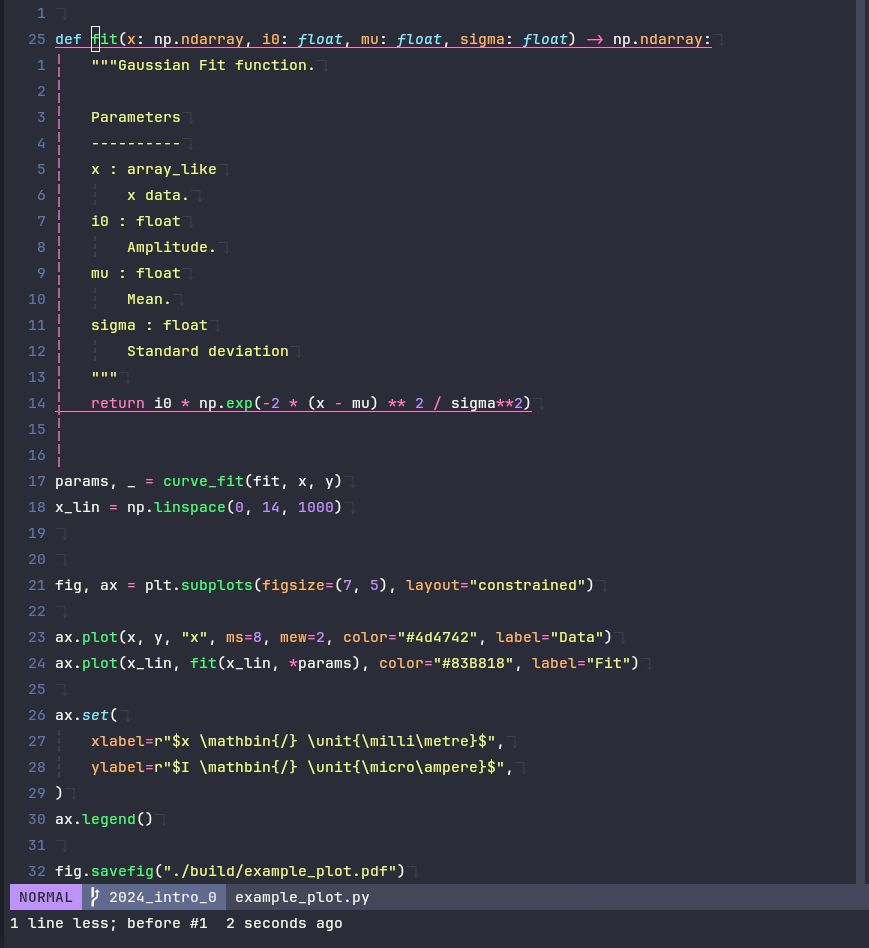
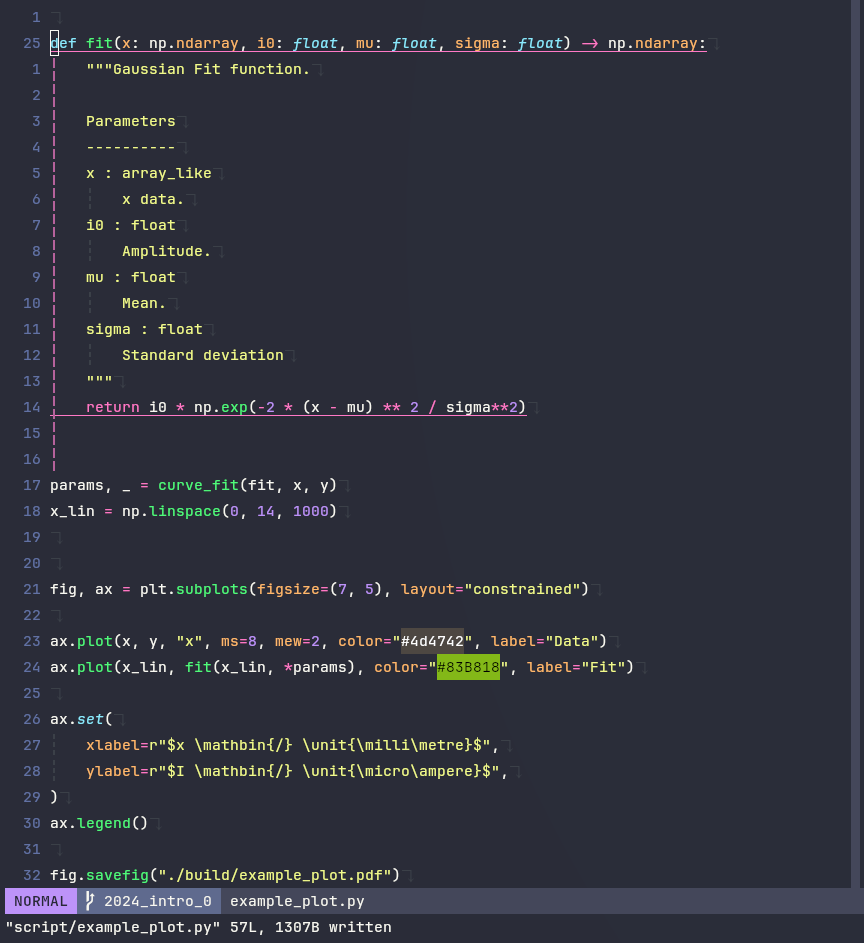
update image, rename Neovim
added colorizer in nvim settings
rename nVim -> Neovim

Changed region(s): [[0.0, 0.0308, 1.0, 1.0]]

diff --git a/intro/content/editoren.tex b/intro/content/editoren.tex
@@ -91,7 +91,7 @@
     ~
     \vspace{.4\textwidth}
 
-    nVim:
+    Neovim:
     \includegraphics[height=0.7\textheight]{figures/nvim_example_screenshot.png}
   \end{minipage}
   % \begin{minipage}{0.6\textwidth}
@@ -115,7 +115,7 @@
       colspec = {X[c] X[c] X[c]},
       measure=vbox,
     }
-    \textbf{\large Nano} & \textbf{\Large \textcolor{red}{n}Vim} & \textbf{\Large Visual Studio Code} \\
+    \textbf{\large Nano} & \textbf{\Large (Neo)Vim} & \textbf{\Large Visual Studio Code} \\
     \includegraphics[height=3cm]{figures/nano.png} &
     \includegraphics[height=3cm]{figures/vim.png} &
     \includegraphics[height=3cm]{figures/code.png} \\
